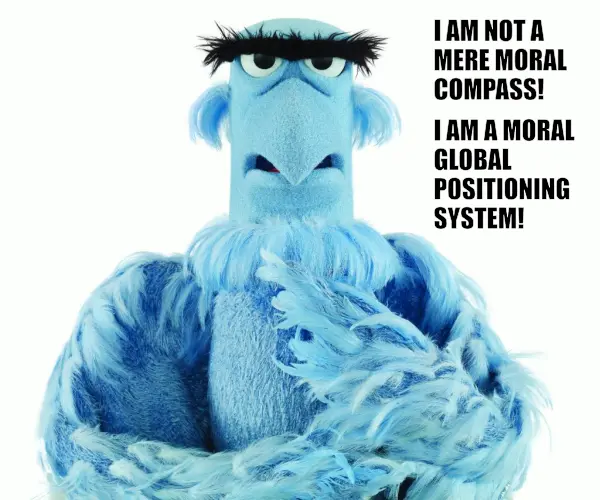
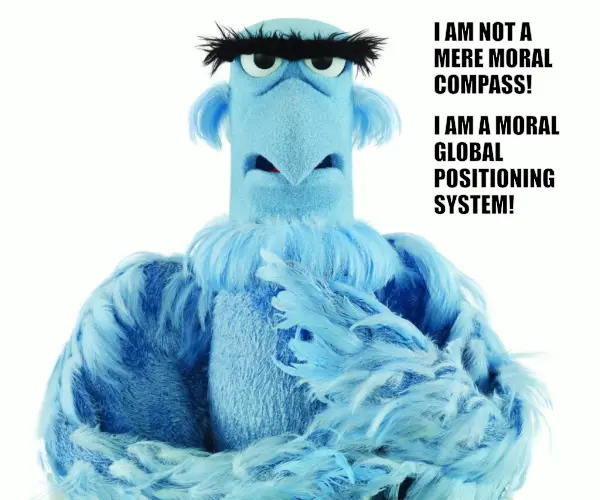
layout tweaks: fit within the face

Changed region(s): [[0.72, 0.03, 0.96, 0.48]]

diff --git a/Moral-GPS/generate_svg_meme.py b/Moral-GPS/generate_svg_meme.py
@@ -102,7 +102,7 @@ class TextSplit(inkex.EffectExtension):
             textlines.append(TextLine(text="System!"))
             self.set_lines(elem2, textlines)
 
-            y = elem2.y + 170
+            y = elem2.y + 160
             elem2.set("y", str(y))
             self.svg.add(elem2)
 
